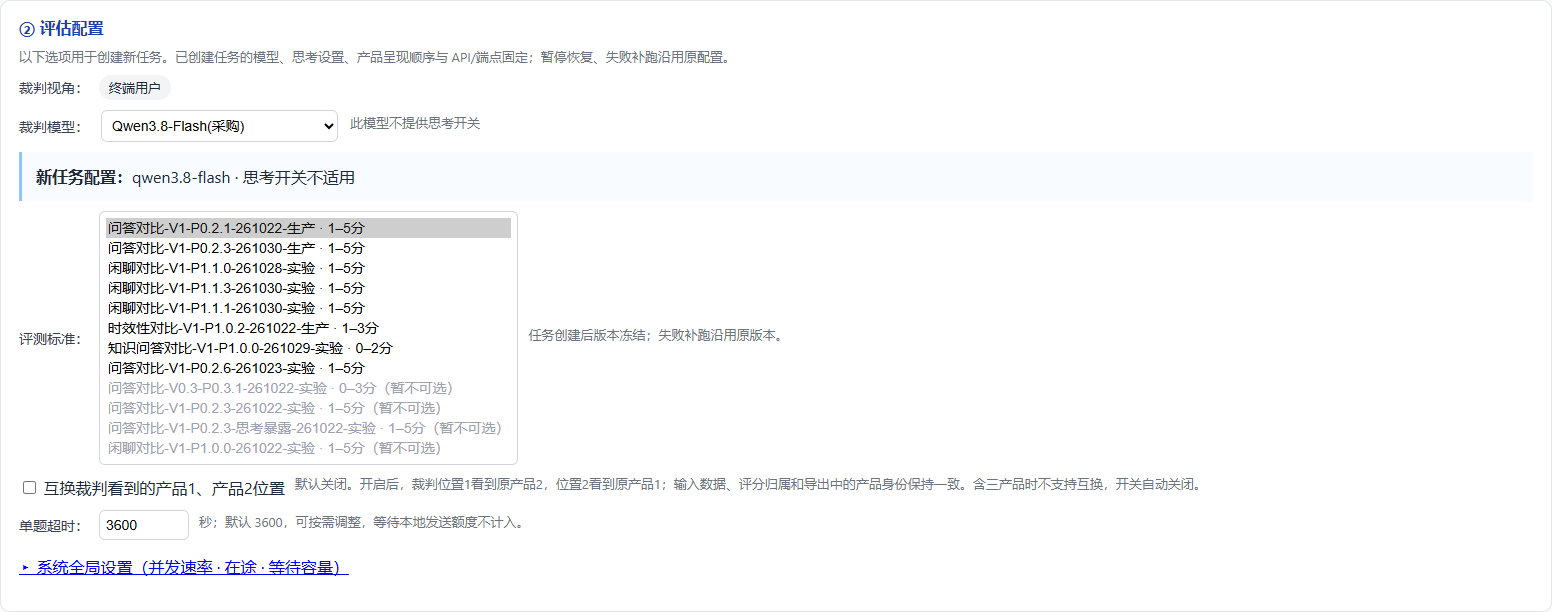
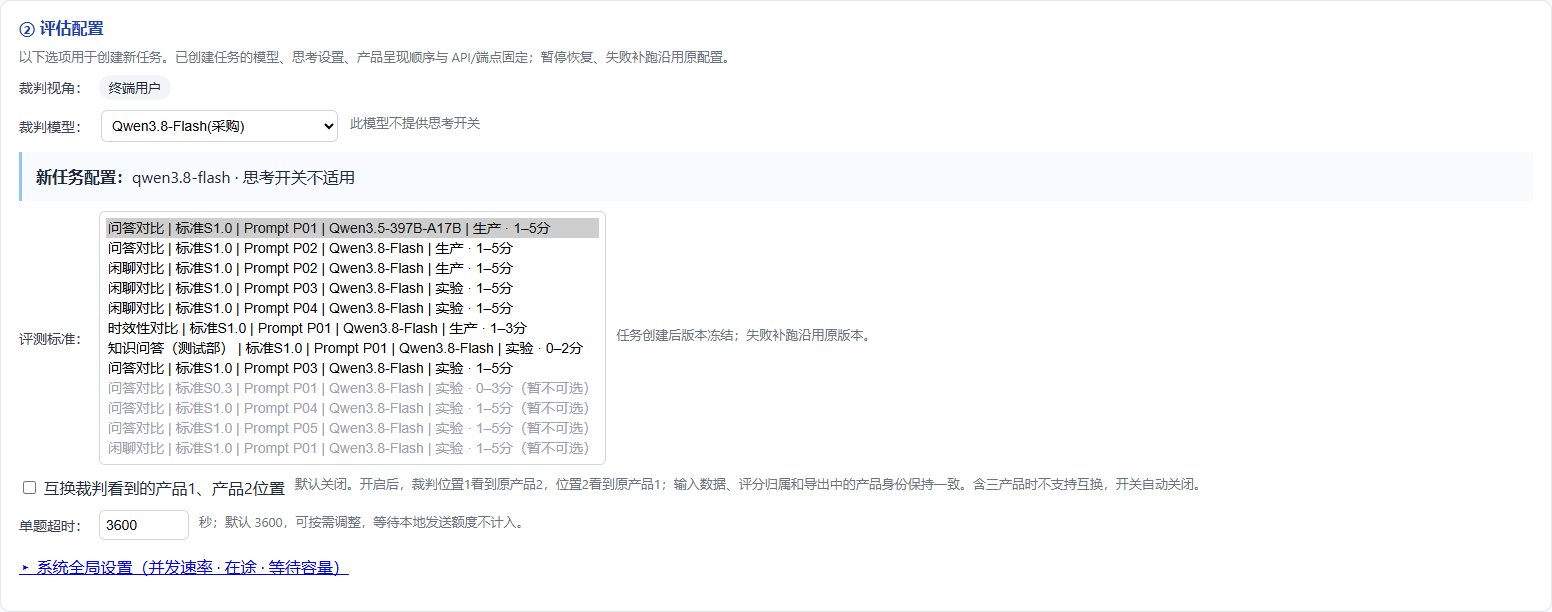
fix(web): align prompt labels with approved naming workbook

Changed region(s): [[0.0928, 0.3415, 0.5567, 0.7451]]

diff --git a/tests/test_prompt_names.py b/tests/test_prompt_names.py
@@ -1,6 +1,7 @@
 """Approved UI names must never relabel unknown history or protocol metadata."""
 from copy import deepcopy
 from pathlib import Path
+import re
 
 import pytest
 
@@ -9,18 +10,24 @@ from auto_eval.web.prompt_names import prompt_name, prompt_name_catalog
 
 
 APPROVED = [
-    ("qa_competitor_compare@0.2-simplified", "0.2.1", "问答对比-V1-P0.2.1-261022-生产"),
-    ("qa_competitor_compare@0.2-simplified-plus", "0.2.3", "问答对比-V1-P0.2.3-261030-生产"),
-    ("qa_competitor_compare@0.2-simplified-1022", "0.2.6", "问答对比-V1-P0.2.6-261023-实验"),
-    ("qa_chat_compare@1.1", "1.1.0", "闲聊对比-V1-P1.1.0-261028-实验"),
-    ("qa_chat_compare@1.1-demand-calibrated", "1.1.3", "闲聊对比-V1-P1.1.3-261030-实验"),
-    ("chitchat_evidence_first_flat@1.1", "1.1.1", "闲聊对比-V1-P1.1.1-261030-实验"),
-    ("timeliness_compare@1.0", "1.0.2", "时效性对比-V1-P1.0.2-261022-生产"),
-    ("knowledge_qa_compare@1.0", "1.0.0", "知识问答对比-V1-P1.0.0-261029-实验"),
-    ("qa_competitor_compare@0.3", "0.3.1", "问答对比-V0.3-P0.3.1-261022-实验"),
-    ("qa_competitor_compare@0.2-simplified-calibrated", "0.2.3", "问答对比-V1-P0.2.3-261022-实验"),
-    ("qa_competitor_compare@0.2-simplified-thinking-exposure", "0.2.3", "问答对比-V1-P0.2.3-思考暴露-261022-实验"),
-    ("qa_chat_compare@1.0", "1.0.0", "闲聊对比-V1-P1.0.0-261022-实验"),
+    ("qa_competitor_compare@0.2-simplified", "0.2.1", "问答对比 | 标准S1.0 | Prompt P01 | Qwen3.5-397B-A17B | 生产"),
+    ("qa_competitor_compare@0.2-simplified-plus", "0.2.3", "问答对比 | 标准S1.0 | Prompt P02 | Qwen3.8-Flash | 生产"),
+    ("qa_competitor_compare@0.2-simplified-1022", "0.2.6", "问答对比 | 标准S1.0 | Prompt P03 | Qwen3.8-Flash | 实验"),
+    ("qa_chat_compare@1.1", "1.1.0", "闲聊对比 | 标准S1.0 | Prompt P02 | Qwen3.8-Flash | 生产"),
+    ("qa_chat_compare@1.1-demand-calibrated", "1.1.3", "闲聊对比 | 标准S1.0 | Prompt P03 | Qwen3.8-Flash | 实验"),
+    ("chitchat_evidence_first_flat@1.1", "1.1.1", "闲聊对比 | 标准S1.0 | Prompt P04 | Qwen3.8-Flash | 实验"),
+    ("timeliness_compare@1.0", "1.0.2", "时效性对比 | 标准S1.0 | Prompt P01 | Qwen3.8-Flash | 生产"),
+    ("knowledge_qa_compare@1.0", "1.0.0", "知识问答（测试部） | 标准S1.0 | Prompt P01 | Qwen3.8-Flash | 实验"),
+    ("qa_competitor_compare@0.3", "0.3.1", "问答对比 | 标准S0.3 | Prompt P01 | Qwen3.8-Flash | 实验"),
+    ("qa_competitor_compare@0.2-simplified-calibrated", "0.2.3", "问答对比 | 标准S1.0 | Prompt P04 | Qwen3.8-Flash | 实验"),
+    ("qa_competitor_compare@0.2-simplified-thinking-exposure", "0.2.3", "问答对比 | 标准S1.0 | Prompt P05 | Qwen3.8-Flash | 实验"),
+    ("qa_chat_compare@1.0", "1.0.0", "闲聊对比 | 标准S1.0 | Prompt P01 | Qwen3.8-Flash | 实验"),
+]
+
+VERSION_CODES = [
+    "QA-S1.0-P01", "QA-S1.0-P02", "QA-S1.0-P03", "CHAT-S1.0-P02",
+    "CHAT-S1.0-P03", "CHAT-S1.0-P04", "TIME-S1.0-P01", "KQA-S1.0-P01",
+    "QA-S0.3-P01", "QA-S1.0-P04", "QA-S1.0-P05", "CHAT-S1.0-P01",
 ]
 
 
@@ -72,7 +79,7 @@ def test_catalog_matches_current_identities_and_reads_availability_from_registry
         "qa_competitor_compare@0.2-simplified-thinking-exposure", "qa_chat_compare@1.0",
     }
     timeliness = resolve_compare_protocol("timeliness_compare@1.0")
-    assert prompt_name(timeliness.id, timeliness.bundle_revision).endswith("-生产")
+    assert prompt_name(timeliness.id, timeliness.bundle_revision).endswith(" | 生产")
     assert timeliness.status == "experimental" and timeliness.selectable is True
 
 
@@ -105,9 +112,10 @@ def test_document_mapping_matches_the_complete_runtime_catalog():
     rows = []
     for line in path.read_text(encoding="utf-8").splitlines():
         if line.startswith("| ") and "@" in line:
-            cells = [cell.strip() for cell in line.strip().strip("|").split("|")]
+            cells = [cell.strip().replace(r"\|", "|")
+                     for cell in re.split(r"(?<!\\)\|", line.strip().strip("|"))]
             rows.append(cells)
     expected = [[r["evaluation_profile"], r["bundle_revision"], r["standard_version"],
-                 r["legacy_name"], r["canonical_name"], "是" if r["selectable"] else "否"]
-                for r in prompt_name_catalog()]
+                 r["legacy_name"], code, r["canonical_name"], "是" if r["selectable"] else "否"]
+                for r, code in zip(prompt_name_catalog(), VERSION_CODES, strict=True)]
     assert rows == expected

diff --git a/src/auto_eval/web/prompt_names.py b/src/auto_eval/web/prompt_names.py
@@ -10,29 +10,29 @@ from ..judges.compare_protocols import resolve_compare_protocol
 
 _PROMPT_NAMES = {
     ("qa_competitor_compare@0.2-simplified", "0.2.1"):
-        "问答对比-V1-P0.2.1-261022-生产",
+        "问答对比 | 标准S1.0 | Prompt P01 | Qwen3.5-397B-A17B | 生产",
     ("qa_competitor_compare@0.2-simplified-plus", "0.2.3"):
-        "问答对比-V1-P0.2.3-261030-生产",
+        "问答对比 | 标准S1.0 | Prompt P02 | Qwen3.8-Flash | 生产",
     ("qa_competitor_compare@0.2-simplified-1022", "0.2.6"):
-        "问答对比-V1-P0.2.6-261023-实验",
+        "问答对比 | 标准S1.0 | Prompt P03 | Qwen3.8-Flash | 实验",
     ("qa_chat_compare@1.1", "1.1.0"):
-        "闲聊对比-V1-P1.1.0-261028-实验",
+        "闲聊对比 | 标准S1.0 | Prompt P02 | Qwen3.8-Flash | 生产",
     ("qa_chat_compare@1.1-demand-calibrated", "1.1.3"):
-        "闲聊对比-V1-P1.1.3-261030-实验",
+        "闲聊对比 | 标准S1.0 | Prompt P03 | Qwen3.8-Flash | 实验",
     ("chitchat_evidence_first_flat@1.1", "1.1.1"):
-        "闲聊对比-V1-P1.1.1-261030-实验",
+        "闲聊对比 | 标准S1.0 | Prompt P04 | Qwen3.8-Flash | 实验",
     ("timeliness_compare@1.0", "1.0.2"):
-        "时效性对比-V1-P1.0.2-261022-生产",
+        "时效性对比 | 标准S1.0 | Prompt P01 | Qwen3.8-Flash | 生产",
     ("knowledge_qa_compare@1.0", "1.0.0"):
-        "知识问答对比-V1-P1.0.0-261029-实验",
+        "知识问答（测试部） | 标准S1.0 | Prompt P01 | Qwen3.8-Flash | 实验",
     ("qa_competitor_compare@0.3", "0.3.1"):
-        "问答对比-V0.3-P0.3.1-261022-实验",
+        "问答对比 | 标准S0.3 | Prompt P01 | Qwen3.8-Flash | 实验",
     ("qa_competitor_compare@0.2-simplified-calibrated", "0.2.3"):
-        "问答对比-V1-P0.2.3-261022-实验",
+        "问答对比 | 标准S1.0 | Prompt P04 | Qwen3.8-Flash | 实验",
     ("qa_competitor_compare@0.2-simplified-thinking-exposure", "0.2.3"):
-        "问答对比-V1-P0.2.3-思考暴露-261022-实验",
+        "问答对比 | 标准S1.0 | Prompt P05 | Qwen3.8-Flash | 实验",
     ("qa_chat_compare@1.0", "1.0.0"):
-        "闲聊对比-V1-P1.0.0-261022-实验",
+        "闲聊对比 | 标准S1.0 | Prompt P01 | Qwen3.8-Flash | 实验",
 }
 
 
